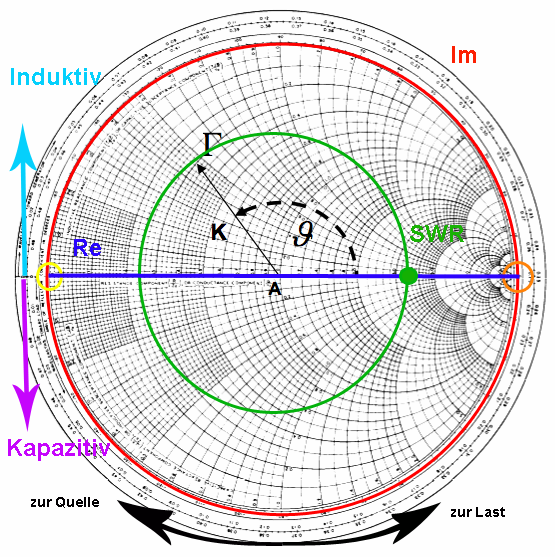
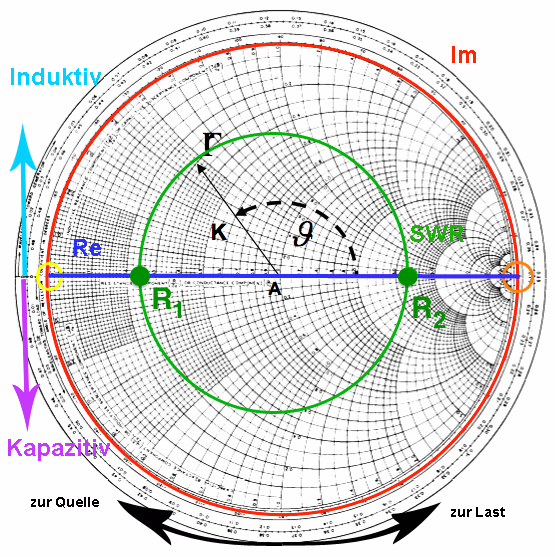
Smith-Chart erweitert und ergänzt

diff --git a/sections/Smith-Chart.tex b/sections/Smith-Chart.tex
@@ -1,87 +1,116 @@
 
 \section{Smith Chart}
+	\textbf{Nur für verlustlose Leitungen anwendbar!}
 \subsection{Eigenschaften}
-	\begin{tabular}{p{10cm}p{8cm}}
+	\begin{tabular}{p{11cm}p{8cm}}
 		\begin{minipage}{10cm}
-        	\begin{enumerate}{\setlength{\itemsep}{0cm}\setlength{\parsep}{0cm} \setlength{\topsep}{0cm}}
-              \item \textbf{Normieren:} $Z_{\text{einzutragen}} = \frac{Z}{Z_0}$
-              \item \textbf{Impedanz $\Leftrightarrow$ Admittanz:} Am Kreismittelpunkt spiegeln
+        	\begin{itemize}{\setlength{\itemsep}{0cm}\setlength{\parsep}{0cm} \setlength{\topsep}{0cm}}
+              \item \textbf{Normieren:} $\underline{Z}_{\text{einzutragen}} = \underline{Z}_N := \frac{Z}{R_0} = R_N + j X_N = \frac{\underline{r}+1}{\underline{r}-1}$
+              \item $\underline{r}$ aus Smith-Chart; Da $ \underline{r} = \frac{\underline{Z}_N-1}{\underline{Z}_N+1}$ abhängig von $R_0$!
+              \item \textbf{Impedanz $\Leftrightarrow$ Admittanz:} Am Kreismittelpunkt spiegeln \\
+              $\underline{Y}_N = \frac{1}{\underline{Z}_N} \rightarrow \underline{r}_{Y_N} = -\underline{r}_{Z_N}$
               \item \textbf{Kurzschluss:} 	\textcolor{yellow}{Impedanz} \textcolor{orange}{Admittanz}
               \item \textbf{Leerlauf:}		\textcolor{orange}{Impedanz} \textcolor{yellow}{Admittanz}
-        	  \item \textbf{Phase:}	Verlängerung der Reflexionsgerade an Kreisrand und Winkel ablesen
-        	  \item \textbf{SWR:} Kreis mit Radius $|\Gamma|$ auf reeller Achse
-        	  \item \textbf{Leitungslänge:} Äusserste Skala am Kreisrand  $\frac{l}{\lambda}$
-        	  \item \textbf{Entnormieren:} $Z_{\text{gewünscht}} = Z_0
-        	  Z_{\text{abgelesen}}$
-        	  \item \textbf{Entnormieren:} $Y_{\text{gewünscht}} = \frac{1}{Z_0}
-        	  Y_{\text{abgelesen}}$
-            \end{enumerate}
+        	  \item \textbf{Phase:}\\	In der Verlängerung der Reflexionsgerade am Kreisrand ablesen
+        	  \item \textbf{VSWR:} Schnittpunkte von Kreis $\underline{r}$ mit reeller Achse bilden $R_1$ \& $R_2 \Rightarrow VSWR = \sqrt{\frac{R_2}{R_1}}$ 
+        	  \item \textbf{gespiegelter Kreis:} Kreis mit konstantem Realanteil(=1) ($R_N/G_N =1$) gespiegelt an Mittelpunkt (''Einheitskreis'' in linker Ebene)
+        	  \item \textbf{Leitungstransformation:} 
+        	  Zeiger um mod0.5$\left(\frac{l}{\lambda}\right)$ drehen. Richtung und Wert gemäss äusserster Skala $\frac{l}{\lambda}$
+        	  \item \textbf{Addition von parallelen Leitungen}\\
+        	  	Darauf achten, dass gleiches $R_0$! und Admittanzen addieren
+        	  \item \textbf{Wellenwiderstandssprung}\\
+        	  		Beim Widerstandssprung umnormieren!
+        	   \item \textbf{Umnormieren:} $\underline{Z}_{N_{R_1}} = \underline{Z}_{N_{R_0}}\frac{R_0}{R_1}$
+        	  \item \textbf{Entnormieren:}\\ $\underline{Z}_{\text{gewünscht}} = R_0
+        	  \underline{Z}_{\text{abgelesen}} \qquad \underline{Y}_{\text{gewünscht}} = \frac{1}{R_0}
+        	        \underline{Y}_{\text{abgelesen}}$
+        	 
+            \end{itemize}
             
         \end{minipage} &
 		\begin{minipage}{8cm}
-        	\includegraphics[height=7cm]{./bilder/SmithChart2.png}
+        	\includegraphics[height=7cm]{./bilder/SmithChart2.png}\\ \\
+        	\includegraphics[height=7cm]{./bilder/smith_anpassung.png}
         \end{minipage}
 	\end{tabular}
-	\\
-	\includegraphics[height=7cm]{./bilder/smith_anpassung.png}
 	
-\subsection{Formeln}
-	$z=r+jx=\frac{1+\Gamma}{1-\Gamma}=\frac{1}{y}$ \qquad
-	$\Gamma=\frac{z-1}{z+1}=\frac{1-y}{1+y}$
 	
-\subsection{Beispiele bei $Z_0=100\Omega$}
-		\renewcommand{\arraystretch}{1.1}
-		\begin{tabular}{| c | c | c | c | c | c |}
-			\hline
-				\textbf{Fall}
-				& 1
-				& 2 
-				& 3
-				& 4
-				& 5 \\
-			\hline
-				\textbf{LE}
-				& Anpassung
-				& Leerlauf
-				& Kurzschluss
-				& $\lambda/8$ Stichleit. KS
-				& $\lambda/8$ Stichleit. LL \\
-			\hline
-				\textbf{SWR}
-				& 1
-				& $\infty$
-				& $\infty$
-				& $\infty$
-				& $\infty$ \\
-			\hline
-				\textbf{$\Gamma$}
-				& $0$
-				& $1 \angle 0 ^\circ$
-				& $1 \angle 180 ^\circ$
-				& $1 \angle 90 ^\circ$
-				& $1 \angle 90 ^\circ$\\
-			\hline
-				\textbf{z}
-				& $1+j0$
-				& $\infty+j\infty$
-				& $0+j0$
-				& $0+j1$
-				& $0-j1$ \\
-			\hline
-				\textbf{$v_{xm}$}
-				& $-$
-				& $\lambda/4$
-				& $\lambda/2$
-				& $3\lambda/8$
-				& $\lambda/8$ \\
-			\hline
-				\textbf{Grafik}
-				& \includegraphics[height=0.9cm]{./bilder/Fall1.png}
-				& \includegraphics[height=0.9cm]{./bilder/Fall2.png}
-				& \includegraphics[height=0.9cm]{./bilder/Fall3.png}
-				& \includegraphics[height=0.9cm]{./bilder/Fall4.png}
-				& \includegraphics[height=0.9cm]{./bilder/Fall5.png} \\
-			\hline
-		\end{tabular}
-		\renewcommand{\arraystretch}{1}
+	\subsection{Anpassungen mit Smith-Chart}
+	\begin{multicols}{2}
+		\subsubsection{Anpassung durch Längs- und Querreaktanz}
+			\parbox[c]{5cm}{\includegraphics[width = 5cm]{./bilder/Anp_Laengs_Querreaktanz}} \parbox[c]{4cm}{Mit Längsreaktanz auf gespiegelten Kreis (Impedanzebene)}\\
+			Auf Fehlabschlüsse mit $Re(\underline{Z}_N)<1$ beschränkt.
+		\subsubsection{Anpassung durch Quer- und Längsreaktanz}
+			\parbox[c]{5cm}{\includegraphics[width = 5cm]{./bilder/Anp_Quer_Laengsreaktanz}}
+			\parbox[c]{4cm}{Mit Querreaktanz auf gespiegelten Kreis (Admittanzebene)}\\
+			Auf Fehlabschlüsse mit $Re(\underline{Z}_N)>1$ beschränkt.
+			\columnbreak
+		\subsubsection{Anpassung durch Leitungsstück und Längsreaktanz}
+			\parbox[c]{4.5cm}{\includegraphics[width = 4.5cm]{./bilder/Anp_Leitung_Laengsreaktanz}
+			Durch Leitungsstück auf $Re(\underline{Z}_N)=1$-Kreis transformieren (Impedanzebene)} \hspace{0.5cm}
+			\parbox[c]{4.5cm}{\includegraphics[width = 4.5cm]{./bilder/Anp_Leitung_Querreaktanz}
+			Durch Leitungsstück auf $Re(\underline{Y}_N)=1$-Kreis transformieren (Admittanzebene)}
+		\subsection{Anpassung durch $\lambda/4$-Transformation}
+			\parbox[c]{5cm}{\includegraphics[width = 5cm]{./bilder/Anp_lambda_4_Transfor}}
+			\parbox[c]{4cm}{$\frac{R}{R_0'}= \frac{R_0'}{R_0}$\\
+			$\Rightarrow R_0' = \sqrt{R \cdot R_0}$}\\
+			
+	
+	\end{multicols}
+	
+%\subsection{Beispiele bei $Z_0=100\Omega$}
+%		\renewcommand{\arraystretch}{1.1}
+%		\begin{tabular}{| c | c | c | c | c | c |}
+%			\hline
+%				\textbf{Fall}
+%				& 1
+%				& 2 
+%				& 3
+%				& 4
+%				& 5 \\
+%			\hline
+%				\textbf{LE}
+%				& Anpassung
+%				& Leerlauf
+%				& Kurzschluss
+%				& $\lambda/8$ Stichleit. KS
+%				& $\lambda/8$ Stichleit. LL \\
+%			\hline
+%				\textbf{SWR}
+%				& 1
+%				& $\infty$
+%				& $\infty$
+%				& $\infty$
+%				& $\infty$ \\
+%			\hline
+%				\textbf{$\underline{r}$}
+%				& $0$
+%				& $1 \angle 0 ^\circ$
+%				& $1 \angle 180 ^\circ$
+%				& $1 \angle 90 ^\circ$
+%				& $1 \angle 90 ^\circ$\\
+%			\hline
+%				\textbf{$\underline{Z}_N$}
+%				& $1+j0$
+%				& $\infty+j\infty$
+%				& $0+j0$
+%				& $0+j1$
+%				& $0-j1$ \\
+%			\hline
+%				\textbf{$v_{xm}$}
+%				& $-$
+%				& $\lambda/4$
+%				& $\lambda/2$
+%				& $3\lambda/8$
+%				& $\lambda/8$ \\
+%			\hline
+%				\textbf{Grafik}
+%				& \includegraphics[height=0.9cm]{./bilder/Fall1.png}
+%				& \includegraphics[height=0.9cm]{./bilder/Fall2.png}
+%				& \includegraphics[height=0.9cm]{./bilder/Fall3.png}
+%				& \includegraphics[height=0.9cm]{./bilder/Fall4.png}
+%				& \includegraphics[height=0.9cm]{./bilder/Fall5.png} \\
+%			\hline
+%		\end{tabular}
+%		\renewcommand{\arraystretch}{1}
 		

diff --git a/elt4.tex b/elt4.tex
@@ -56,6 +56,7 @@
 
 \input{./sections/Leitungstheorie.tex}
 
+\newpage
 \input{./sections/Smith-Chart.tex}
 \newpage
 
